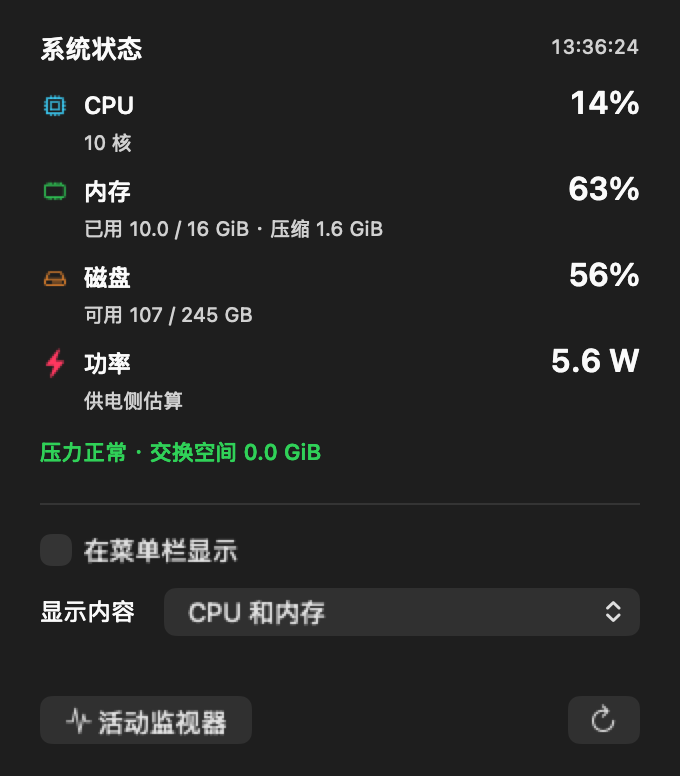
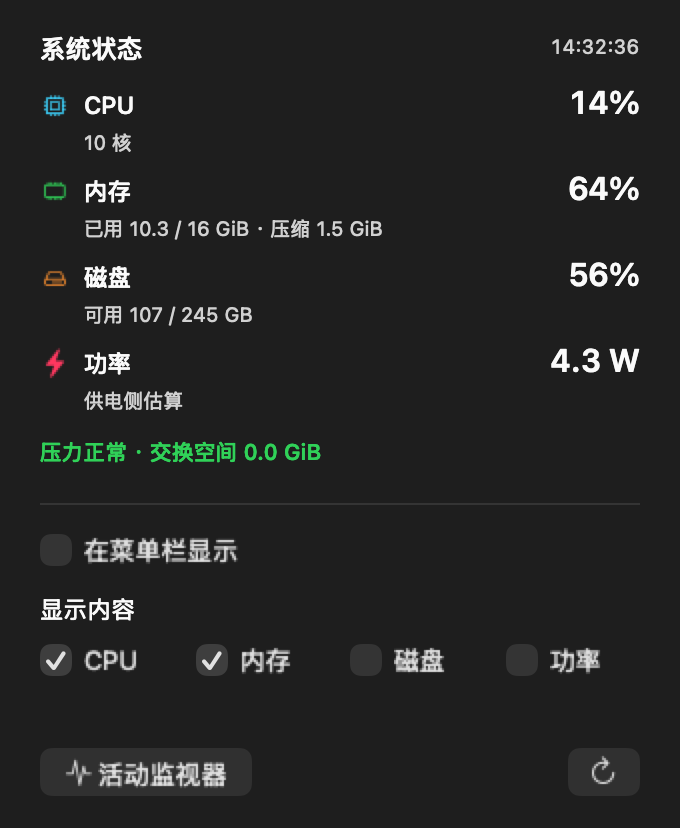
Allow arbitrary combinations of menu bar metrics

diff --git a/ResourceMonitorWindow.swift b/ResourceMonitorWindow.swift
@@ -1,38 +1,40 @@
 import AppKit
 
 enum MenuBarMetric: String, CaseIterable {
-    case cpuAndMemory, cpu, memory, disk, power, icon
+    case cpu, memory, disk, power
+
+    static let font = NSFont.monospacedDigitSystemFont(ofSize: 11, weight: .medium)
 
     var label: String {
         switch self {
-        case .cpuAndMemory: return "CPU 和内存"
         case .cpu: return "CPU"
         case .memory: return "内存"
         case .disk: return "磁盘"
         case .power: return "功率"
-        case .icon: return "仅图标"
         }
     }
 
-    var width: CGFloat {
-        switch self {
-        case .cpuAndMemory: return 156
-        case .power: return 116
-        case .icon: return NSStatusItem.squareLength
-        default: return 104
-        }
+    static func title(for metrics: Set<MenuBarMetric>, snapshot: MetricsSnapshot?) -> String {
+        allCases.filter { metrics.contains($0) }.map { $0.title(snapshot) }.joined(separator: "  ")
+    }
+
+    static func width(for metrics: Set<MenuBarMetric>) -> CGFloat {
+        guard !metrics.isEmpty else { return NSStatusItem.squareLength }
+        // Reserve the widest valid readings so sampling never shifts nearby menu items.
+        let maximum = allCases.filter { metrics.contains($0) }.map {
+            $0.label + ($0 == .power ? " 1000.0 W" : " 100%")
+        }.joined(separator: "  ")
+        return ceil((maximum as NSString).size(withAttributes: [.font: font]).width) + 34
     }
 
     func title(_ snapshot: MetricsSnapshot?) -> String {
         switch self {
-        case .cpuAndMemory: return MenuBarText.title(snapshot)
         case .cpu: return "CPU \(MenuBarText.percent(snapshot?.cpu))"
         case .memory: return "内存 \(MenuBarText.percent(snapshot?.memory?.percent))"
         case .disk: return "磁盘 \(MenuBarText.percent(snapshot?.disk?.percent))"
         case .power:
             let power = snapshot.flatMap { MenuBarText.freshPower($0) }
             return "功率 " + (power.map { String(format: "%.1f W", $0.watts) } ?? "--")
-        case .icon: return ""
         }
     }
 }
@@ -47,30 +49,47 @@ final class MonitorPreferences {
         set { defaults.set(newValue, forKey: "menuBarEnabled") }
     }
 
-    var metric: MenuBarMetric {
-        get { MenuBarMetric(rawValue: defaults.string(forKey: "menuBarMetric") ?? "") ?? .cpuAndMemory }
-        set { defaults.set(newValue.rawValue, forKey: "menuBarMetric") }
+    var metrics: Set<MenuBarMetric> {
+        get {
+            if let stored = defaults.stringArray(forKey: "menuBarMetrics") {
+                return Set(stored.compactMap(MenuBarMetric.init(rawValue:)))
+            }
+            // Preserve the single selection when upgrading from 2.2.0.
+            let legacy = defaults.string(forKey: "menuBarMetric") ?? "cpuAndMemory"
+            if legacy == "icon" { return [] }
+            if let metric = MenuBarMetric(rawValue: legacy) { return [metric] }
+            return [.cpu, .memory]
+        }
+        set {
+            defaults.set(MenuBarMetric.allCases.filter { newValue.contains($0) }.map(\.rawValue), forKey: "menuBarMetrics")
+        }
     }
 }
 
 final class ResourceMonitorContentView: NSView {
     let metricsView = MenuBarContentView()
     let menuBarToggle = NSButton(checkboxWithTitle: "在菜单栏显示", target: nil, action: nil)
-    let metricPicker = NSPopUpButton(frame: .zero, pullsDown: false)
+    let metricToggles = MenuBarMetric.allCases.map { NSButton(checkboxWithTitle: $0.label, target: nil, action: nil) }
     var onMenuBarChanged: ((Bool) -> Void)?
-    var onMetricChanged: ((MenuBarMetric) -> Void)?
+    var onMetricsChanged: ((Set<MenuBarMetric>) -> Void)?
     var onActivityMonitor: (() -> Void)?
     var onRefreshWidgets: (() -> Void)?
 
     init() {
-        super.init(frame: NSRect(x: 0, y: 0, width: 340, height: 388))
+        super.init(frame: NSRect(x: 0, y: 0, width: 340, height: 414))
         let separator = NSBox()
         separator.boxType = .separator
         let label = NSTextField(labelWithString: "显示内容")
         label.font = .systemFont(ofSize: 12)
-        metricPicker.addItems(withTitles: MenuBarMetric.allCases.map(\.label))
-        metricPicker.target = self
-        metricPicker.action = #selector(changeMetric)
+        let choices = NSStackView(views: metricToggles)
+        choices.orientation = .horizontal
+        choices.distribution = .fillEqually
+        choices.alignment = .centerY
+        choices.spacing = 10
+        for toggle in metricToggles {
+            toggle.target = self
+            toggle.action = #selector(changeMetrics)
+        }
         menuBarToggle.target = self
         menuBarToggle.action = #selector(changeMenuBar)
         let activity = NSButton(title: "活动监视器", target: self, action: #selector(openActivity))
@@ -80,7 +99,7 @@ final class ResourceMonitorContentView: NSView {
         let refresh = NSButton(image: NSImage(systemSymbolName: "arrow.clockwise", accessibilityDescription: "刷新桌面小组件")!, target: self, action: #selector(refreshWidgets))
         refresh.bezelStyle = .rounded
         refresh.toolTip = "请求刷新桌面小组件"
-        for view in [metricsView, separator, menuBarToggle, label, metricPicker, activity, refresh] {
+        for view in [metricsView, separator, menuBarToggle, label, choices, activity, refresh] {
             view.translatesAutoresizingMaskIntoConstraints = false
             addSubview(view)
         }
@@ -95,11 +114,11 @@ final class ResourceMonitorContentView: NSView {
             menuBarToggle.topAnchor.constraint(equalTo: separator.bottomAnchor, constant: 14),
             menuBarToggle.leadingAnchor.constraint(equalTo: separator.leadingAnchor),
             label.leadingAnchor.constraint(equalTo: separator.leadingAnchor),
-            label.centerYAnchor.constraint(equalTo: metricPicker.centerYAnchor),
-            metricPicker.topAnchor.constraint(equalTo: menuBarToggle.bottomAnchor, constant: 10),
-            metricPicker.leadingAnchor.constraint(equalTo: label.trailingAnchor, constant: 14),
-            metricPicker.trailingAnchor.constraint(equalTo: separator.trailingAnchor),
-            metricPicker.heightAnchor.constraint(equalToConstant: 25),
+            label.topAnchor.constraint(equalTo: menuBarToggle.bottomAnchor, constant: 14),
+            choices.topAnchor.constraint(equalTo: label.bottomAnchor, constant: 8),
+            choices.leadingAnchor.constraint(equalTo: separator.leadingAnchor),
+            choices.trailingAnchor.constraint(equalTo: separator.trailingAnchor),
+            choices.heightAnchor.constraint(equalToConstant: 20),
             activity.leadingAnchor.constraint(equalTo: separator.leadingAnchor),
             activity.bottomAnchor.constraint(equalTo: bottomAnchor, constant: -16),
             refresh.trailingAnchor.constraint(equalTo: separator.trailingAnchor),
@@ -112,11 +131,18 @@ final class ResourceMonitorContentView: NSView {
 
     func updatePreferences(_ preferences: MonitorPreferences) {
         menuBarToggle.state = preferences.menuBarEnabled ? .on : .off
-        metricPicker.selectItem(at: MenuBarMetric.allCases.firstIndex(of: preferences.metric)!)
+        for (index, metric) in MenuBarMetric.allCases.enumerated() {
+            metricToggles[index].state = preferences.metrics.contains(metric) ? .on : .off
+        }
     }
 
     @objc private func changeMenuBar() { onMenuBarChanged?(menuBarToggle.state == .on) }
-    @objc private func changeMetric() { onMetricChanged?(MenuBarMetric.allCases[metricPicker.indexOfSelectedItem]) }
+    @objc private func changeMetrics() {
+        let selected = MenuBarMetric.allCases.enumerated().compactMap { index, metric in
+            metricToggles[index].state == .on ? metric : nil
+        }
+        onMetricsChanged?(Set(selected))
+    }
     @objc private func openActivity() { onActivityMonitor?() }
     @objc private func refreshWidgets() { onRefreshWidgets?() }
 }

diff --git a/NativeHost.swift b/NativeHost.swift
@@ -10,6 +10,7 @@ final class NativeHostDelegate: NSObject, NSApplicationDelegate, NSWindowDelegat
     private let metricsView = MenuBarContentView()
     private var snapshot: MetricsSnapshot?
     private var metricItems: [NSMenuItem] = []
+    private var iconOnlyItem: NSMenuItem?
 
     init(defaults: UserDefaults = .standard) {
         preferences = MonitorPreferences(defaults: defaults)
@@ -37,12 +38,12 @@ final class NativeHostDelegate: NSObject, NSApplicationDelegate, NSWindowDelegat
 
     private func createStatusItem() {
         guard statusItem == nil else { return }
-        let statusItem = NSStatusBar.system.statusItem(withLength: preferences.metric.width)
+        let statusItem = NSStatusBar.system.statusItem(withLength: MenuBarMetric.width(for: preferences.metrics))
         self.statusItem = statusItem
         statusItem.button?.image = NSImage(systemSymbolName: "waveform.path.ecg", accessibilityDescription: "系统状态")
         statusItem.button?.image?.size = NSSize(width: 14, height: 14)
         statusItem.button?.imagePosition = .imageLeading
-        statusItem.button?.font = .monospacedDigitSystemFont(ofSize: 11, weight: .medium)
+        statusItem.button?.font = MenuBarMetric.font
         statusItem.button?.toolTip = "系统状态"
         let menu = NSMenu()
         let metricsItem = NSMenuItem()
@@ -53,11 +54,15 @@ final class NativeHostDelegate: NSObject, NSApplicationDelegate, NSWindowDelegat
         let selection = NSMenuItem(title: "显示内容", action: nil, keyEquivalent: "")
         let submenu = NSMenu()
         metricItems = MenuBarMetric.allCases.enumerated().map { index, metric in
-            let menuItem = item(metric.label, action: #selector(selectMetric(_:)))
+            let menuItem = item(metric.label, action: #selector(toggleMetric(_:)))
             menuItem.tag = index
             submenu.addItem(menuItem)
             return menuItem
         }
+        submenu.addItem(.separator())
+        let iconOnly = item("仅图标", action: #selector(clearMetrics))
+        iconOnlyItem = iconOnly
+        submenu.addItem(iconOnly)
         selection.submenu = submenu
         menu.addItem(selection)
         menu.addItem(item("关闭菜单栏显示", action: #selector(disableMenuBar)))
@@ -75,12 +80,15 @@ final class NativeHostDelegate: NSObject, NSApplicationDelegate, NSWindowDelegat
 
     private func updateStatusItem() {
         guard let statusItem else { return }
-        statusItem.length = preferences.metric.width
-        statusItem.button?.title = preferences.metric.title(snapshot)
-        statusItem.button?.setAccessibilityLabel("系统状态，\(MenuBarText.title(snapshot))")
+        let selected = preferences.metrics
+        let title = MenuBarMetric.title(for: selected, snapshot: snapshot)
+        statusItem.length = MenuBarMetric.width(for: selected)
+        statusItem.button?.title = title
+        statusItem.button?.setAccessibilityLabel(title.isEmpty ? "系统状态" : "系统状态，\(title)")
         for menuItem in metricItems {
-            menuItem.state = MenuBarMetric.allCases[menuItem.tag] == preferences.metric ? .on : .off
+            menuItem.state = selected.contains(MenuBarMetric.allCases[menuItem.tag]) ? .on : .off
         }
+        iconOnlyItem?.state = selected.isEmpty ? .on : .off
     }
 
     private func applyMenuBarPreference() {
@@ -90,13 +98,24 @@ final class NativeHostDelegate: NSObject, NSApplicationDelegate, NSWindowDelegat
             NSStatusBar.system.removeStatusItem(statusItem)
             self.statusItem = nil
             metricItems = []
+            iconOnlyItem = nil
         }
         resourceView?.updatePreferences(preferences)
         updateStatusItem()
     }
 
-    @objc private func selectMetric(_ sender: NSMenuItem) {
-        preferences.metric = MenuBarMetric.allCases[sender.tag]
+    @objc private func toggleMetric(_ sender: NSMenuItem) {
+        let metric = MenuBarMetric.allCases[sender.tag]
+        var selected = preferences.metrics
+        if selected.contains(metric) { selected.remove(metric) }
+        else { selected.insert(metric) }
+        preferences.metrics = selected
+        resourceView?.updatePreferences(preferences)
+        updateStatusItem()
+    }
+
+    @objc private func clearMetrics() {
+        preferences.metrics = []
         resourceView?.updatePreferences(preferences)
         updateStatusItem()
     }
@@ -115,9 +134,9 @@ final class NativeHostDelegate: NSObject, NSApplicationDelegate, NSWindowDelegat
                 self.preferences.menuBarEnabled = enabled
                 self.applyMenuBarPreference()
             }
-            view.onMetricChanged = { [weak self] metric in
+            view.onMetricsChanged = { [weak self] metrics in
                 guard let self else { return }
-                self.preferences.metric = metric
+                self.preferences.metrics = metrics
                 self.updateStatusItem()
             }
             view.onActivityMonitor = { [weak self] in self?.openActivityMonitor() }

diff --git a/README.md b/README.md
@@ -2,19 +2,19 @@
 
 原生 macOS 资源监视、可选菜单栏监控与桌面小组件，显示 CPU、内存、磁盘占用及供电功率。资源监视是普通窗口，不会置顶；菜单栏是否显示由用户选择，桌面小组件支持小、中、大三种尺寸。
 
-当前版本：**2.2.0**。安装后的应用和小组件名称均为 **“系统状态”**。
+当前版本：**2.3.0**。安装后的应用和小组件名称均为 **“系统状态”**。
 
 ## 下载安装
 
-**[下载安装包：MacPulse Widget 2.2.0（M 系列 Mac）](https://github.com/qwer8856/MACPulse-widget/releases/download/v2.2.0/MACPulse-Widget-v2.2.0-macOS-arm64.zip)**
+**[下载安装包：MacPulse Widget 2.3.0（M 系列 Mac）](https://github.com/qwer8856/MACPulse-widget/releases/download/v2.3.0/MACPulse-Widget-v2.3.0-macOS-arm64.zip)**
 
-[版本发布页与校验文件](https://github.com/qwer8856/MACPulse-widget/releases/tag/v2.2.0)
+[版本发布页与校验文件](https://github.com/qwer8856/MACPulse-widget/releases/tag/v2.3.0)
 
 需要 Apple Silicon Mac（M 系列）和 macOS 14 或更新版本。
 
 1. 从 [Releases](https://github.com/qwer8856/MACPulse-widget/releases) 下载并解压 ZIP 安装包。
 2. 将“系统状态.app”拖入“应用程序”文件夹。
-3. 启动“系统状态”后打开“资源监视”窗口，数据约每秒更新。需要屏幕右上角显示时，勾选“在菜单栏显示”，再选择显示内容。
+3. 启动“系统状态”后打开“资源监视”窗口，数据约每秒更新。需要屏幕右上角显示时，勾选“在菜单栏显示”，再分别勾选 CPU、内存、磁盘、功率，自由组合。
 4. 需要桌面小组件时，在桌面空白处右键，打开“编辑小组件”，搜索 **“系统状态”**，选择尺寸并添加。
 
 当前安装包使用本地临时签名，未经 Apple 开发者签名和公证，首次打开可能被 macOS 安全策略拦截；该限制不因从 GitHub 下载而消失。仅在本机验证过，其他机型的功率数据支持情况可能不同。
@@ -44,7 +44,9 @@
 
 ## 使用与更新
 
-首次启动及从 2.1.0 升级时，菜单栏默认关闭。勾选“在菜单栏显示”后，可选择 **CPU 和内存、CPU、内存、磁盘、功率或仅图标**。开关及显示内容会保存，下次启动沿用；也可从菜单栏的“显示内容”子菜单切换。
+首次启动及从 2.1.0 升级时，菜单栏默认关闭。勾选“在菜单栏显示”后，**CPU、内存、磁盘、功率可独立勾选、任意组合**，例如 CPU + 功率、内存 + 磁盘，或四项全选。全部取消时仅显示图标。开关及组合会保存，下次启动沿用；从 2.2.0 升级会保留原来的显示选择。
+
+也可在菜单栏的“显示内容”子菜单分别勾选指标，窗口中的复选框会同步变化；选择“仅图标”可清空组合。指标按 CPU、内存、磁盘、功率的顺序显示，菜单栏宽度随所选组合调整，同一组合的数值变化不会使宽度跳动。
 
 未启用菜单栏时，关闭资源监视窗口即退出应用；启用后，关闭窗口会保留菜单栏监控，点击菜单中的“资源监视”可重新打开窗口。选择“关闭菜单栏显示”会移除菜单栏项目并回到窗口。
 
